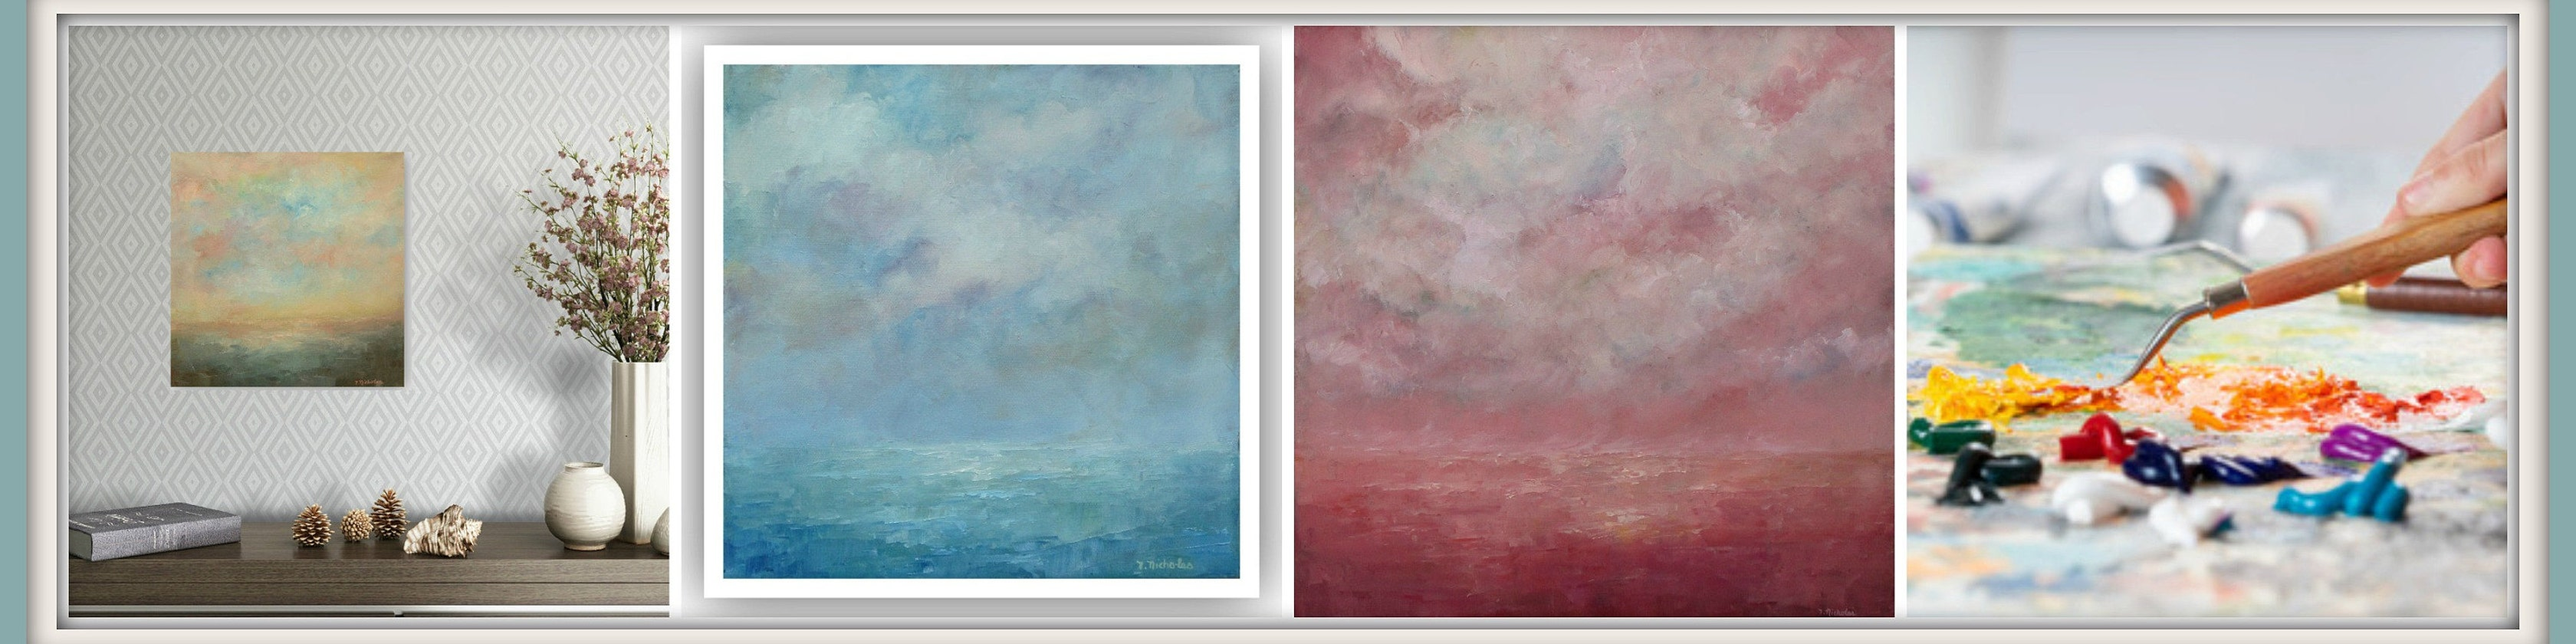
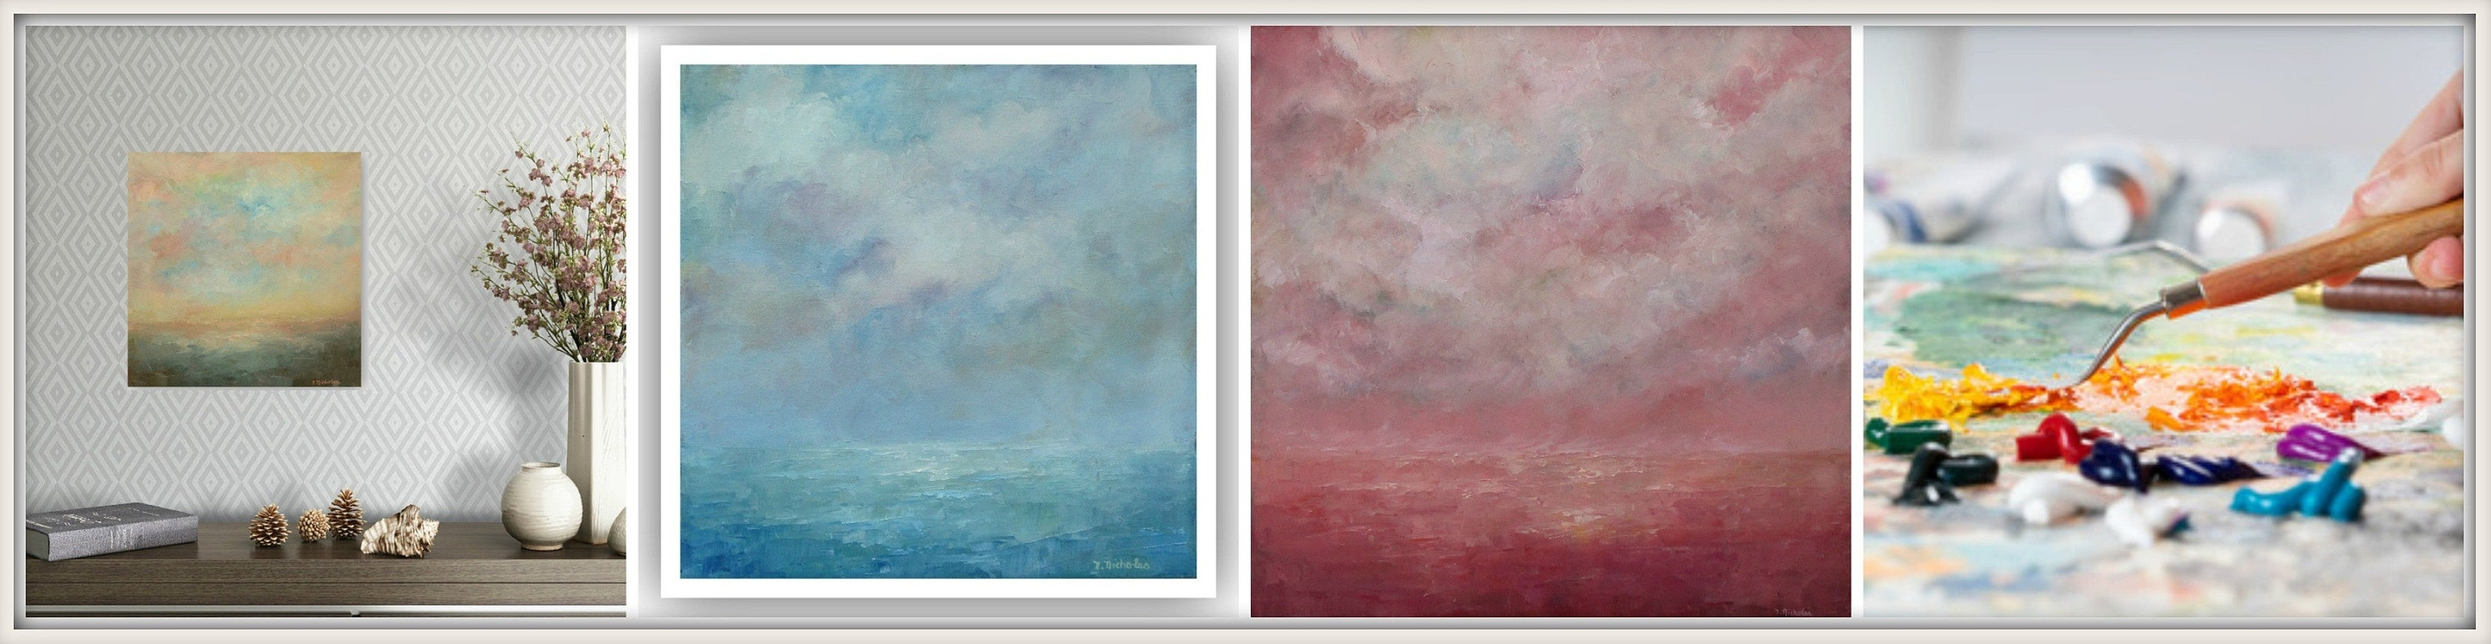
header fixes

diff --git a/app/static/styles.css b/app/static/styles.css
@@ -11,10 +11,6 @@
     margin-bottom: 0;
 }
 
-.jumbotron {
-    padding-top: 0;
-}
-
 .header-container {
     position: relative;
     top: 50px;
@@ -44,7 +40,7 @@
 }
 
 .header-img {
-    opacity: 55%; 
+    opacity: 47%; 
 }
 
 .home-header {
@@ -145,6 +141,7 @@
 
     .header-title h1 {
         font-size: 55px;
+        letter-spacing: 0.47em;
     }
 
     .header-title h3 {
